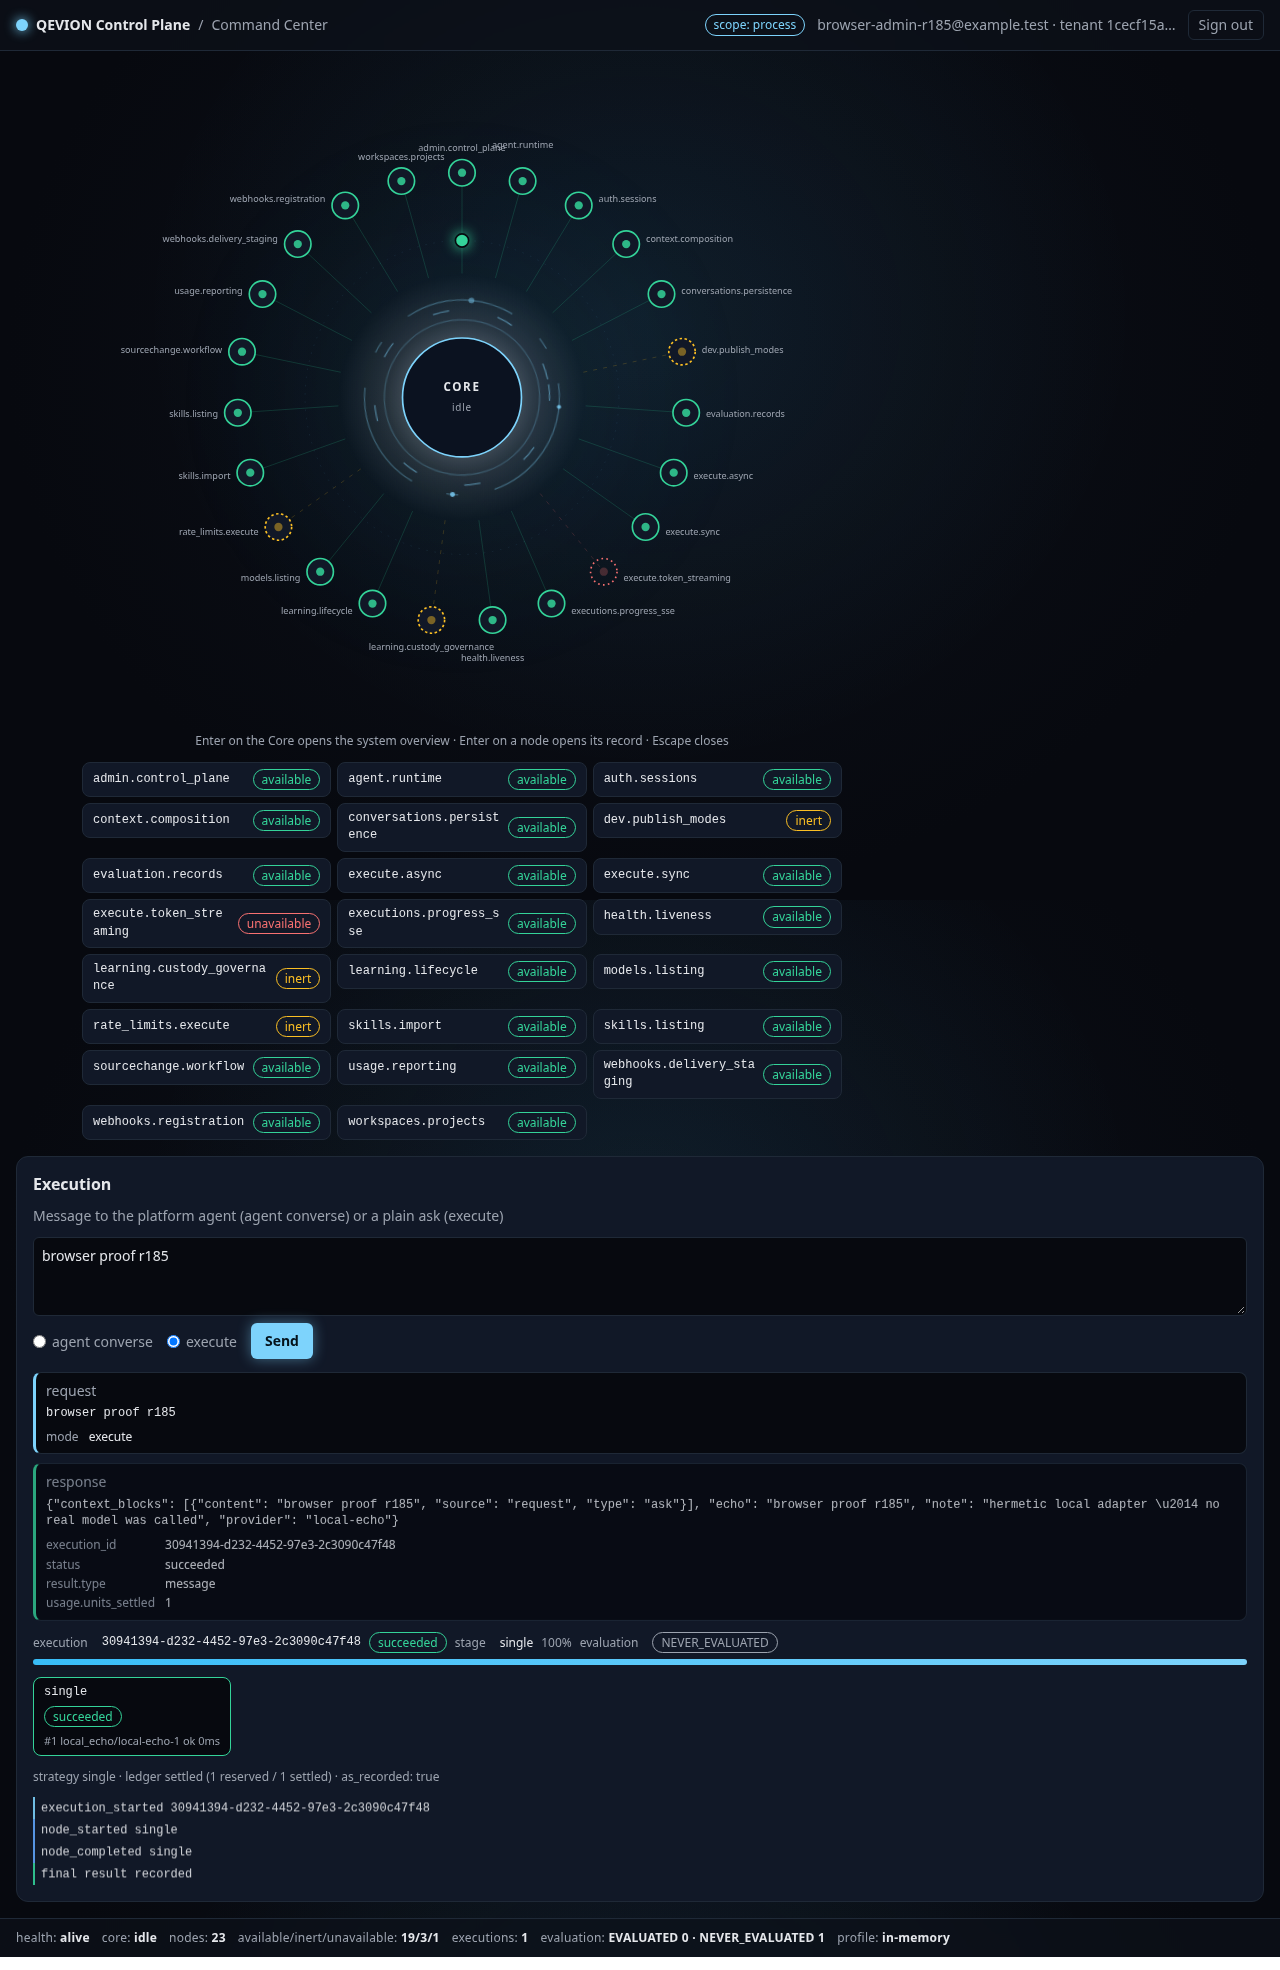
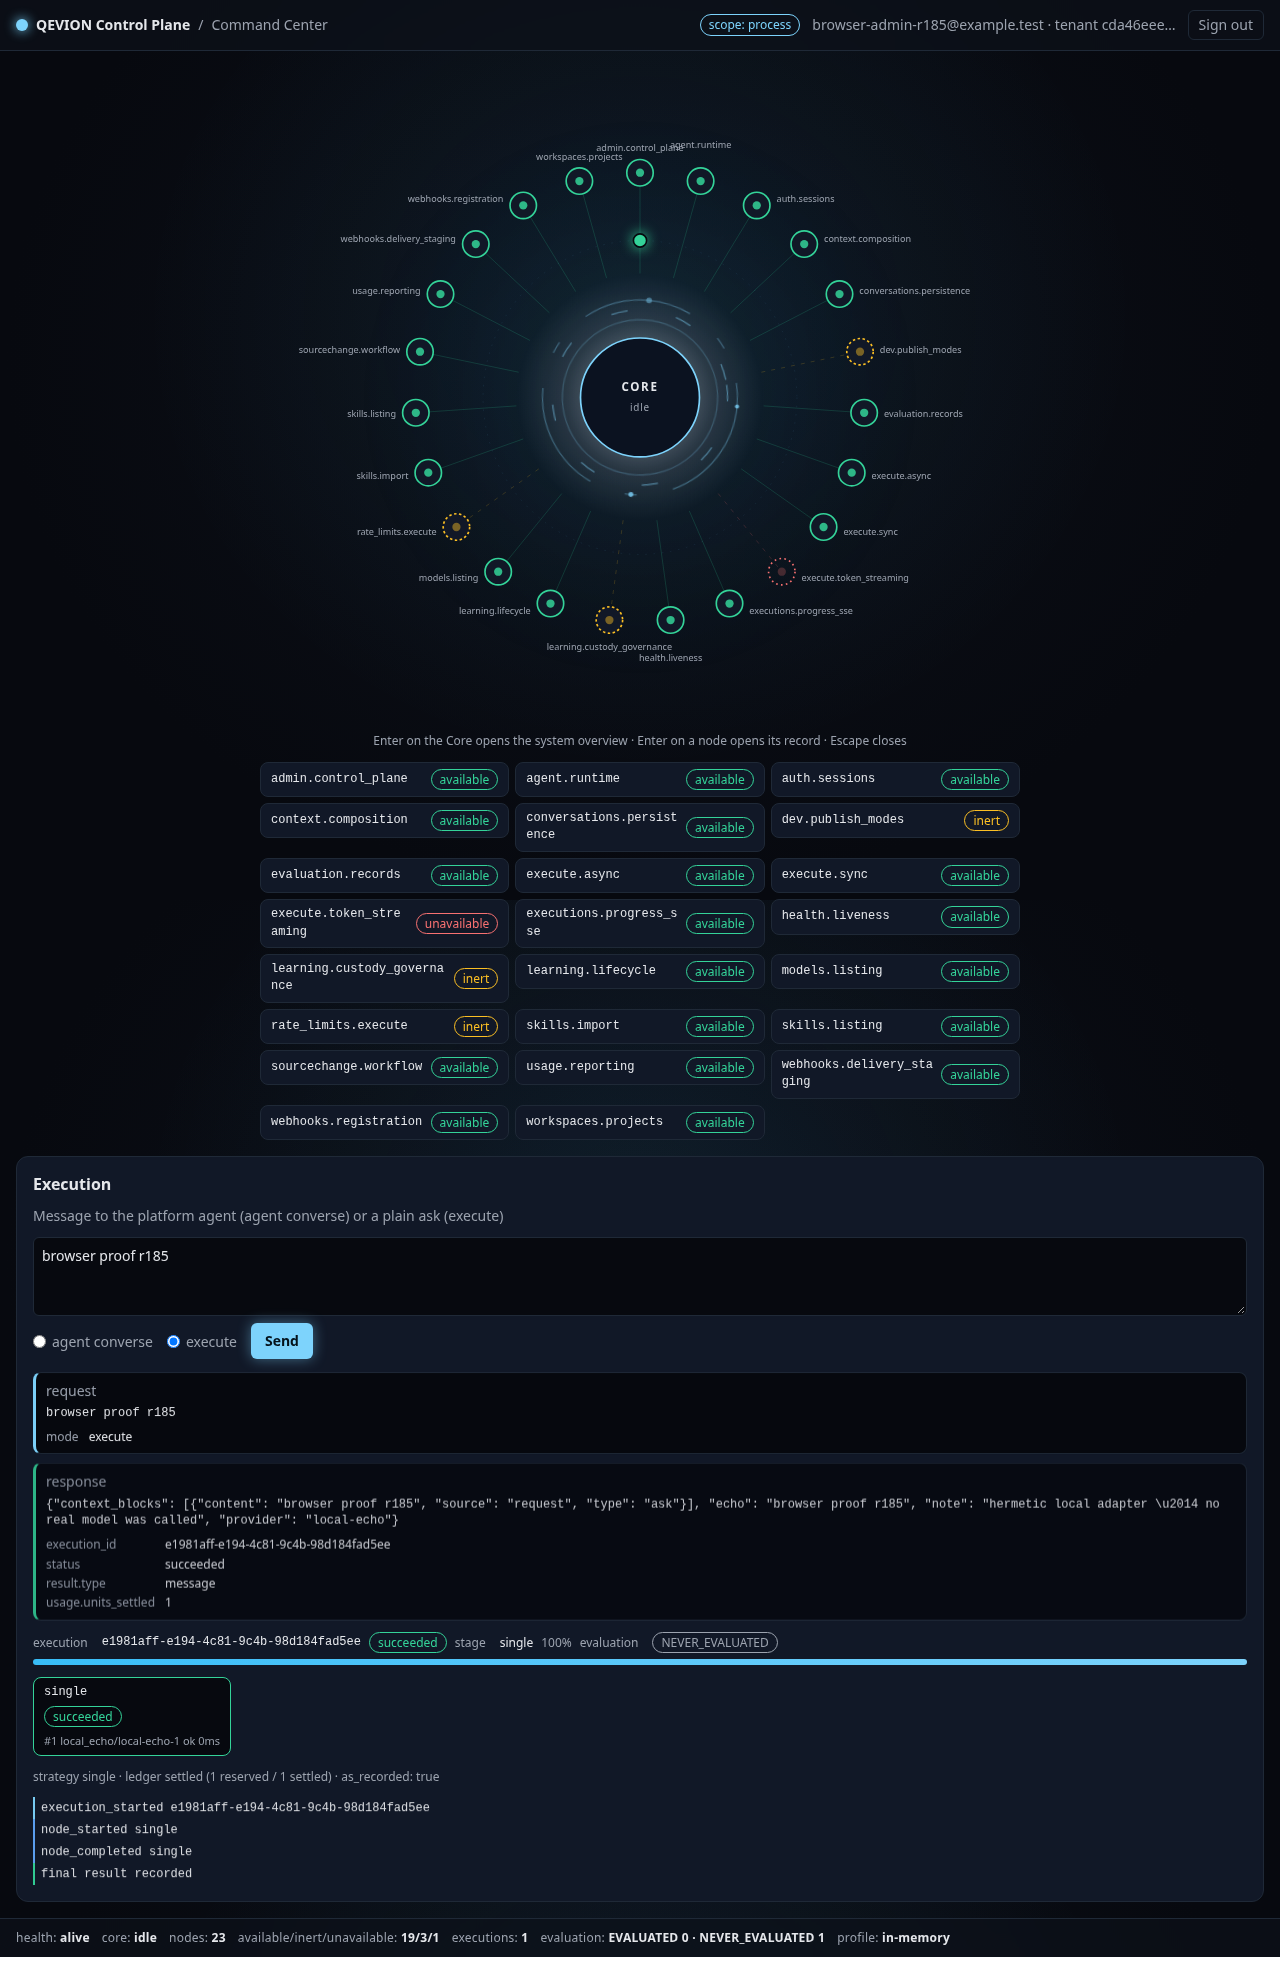
r187: GREEN — F-CS1-01 sessionStorage token custody + boot probe via shared probeSession(); F-CS1-02 single centred column, detail as overlay; tests/ui 105/0; evidence/r187 proof

diff --git a/ui/app/command/command.js b/ui/app/command/command.js
@@ -763,6 +763,36 @@ document.addEventListener("keydown", (event) => {
 
 /* --- session ------------------------------------------------------------------- */
 
+/* R187 (F-CS1-01): the bearer token is kept in sessionStorage — tab-scoped, gone when
+   the tab closes, never localStorage — so a reload keeps the admin session. Boot and
+   login share ONE probe of the served session route; a failed probe clears custody. */
+const TOKEN_KEY = "qevion.command.session";
+
+function rememberToken(token) {
+  state.token = token;
+  if (token) sessionStorage.setItem(TOKEN_KEY, token);
+  else sessionStorage.removeItem(TOKEN_KEY);
+}
+
+async function probeSession() {
+  const session = await api("/v1/auth/session");
+  if (!session.ok || !session.body || session.body.is_admin !== true) {
+    rememberToken(null);
+    return null;
+  }
+  return session.body;
+}
+
+async function enterCenter(session) {
+  state.session = session;
+  document.getElementById("session-who").textContent =
+    `${session.email || "?"} \u00b7 tenant ${String(session.tenant_id || "?").slice(0, 8)}\u2026`;
+  document.getElementById("login-view").hidden = true;
+  document.getElementById("center-view").hidden = false;
+  document.getElementById("logout").hidden = false;
+  await loadCenter();
+}
+
 document.getElementById("login-form").addEventListener("submit", async (event) => {
   event.preventDefault();
   const errorBox = document.getElementById("login-error");
@@ -778,26 +808,19 @@ document.getElementById("login-form").addEventListener("submit", async (event) =
     showError(errorBox, result.body);
     return;
   }
-  state.token = result.body.token;
-  const session = await api("/v1/auth/session");
-  if (!session.ok || session.body.is_admin !== true) {
+  rememberToken(result.body.token);
+  const session = await probeSession();
+  if (!session) {
     showError(errorBox, { error: { code: "unauthorized", message: "Admin access required." } });
-    state.token = null;
     return;
   }
-  state.session = session.body;
-  document.getElementById("session-who").textContent =
-    `${session.body.email || "?"} \u00b7 tenant ${String(session.body.tenant_id || "?").slice(0, 8)}\u2026`;
-  document.getElementById("login-view").hidden = true;
-  document.getElementById("center-view").hidden = false;
-  document.getElementById("logout").hidden = false;
-  await loadCenter();
+  await enterCenter(session);
 });
 
 document.getElementById("logout").addEventListener("click", async () => {
   const result = await api("/v1/auth/logout", { method: "POST" });
   if (!result.ok) return;
-  state.token = null;
+  rememberToken(null);
   state.catalog = null;
   state.selected = null;
   state.session = null;
@@ -812,3 +835,13 @@ document.getElementById("logout").addEventListener("click", async () => {
   document.getElementById("login-view").hidden = false;
   document.getElementById("login-password").value = "";
 });
+
+/* boot: resume a session this tab already holds (F-CS1-01). One probe, no timers;
+   when the stored token is stale the probe clears it and the login view stays. */
+(async function boot() {
+  const stored = sessionStorage.getItem(TOKEN_KEY);
+  if (!stored) return;
+  state.token = stored;
+  const session = await probeSession();
+  if (session) await enterCenter(session);
+})();

diff --git a/ui/app/command/command.css b/ui/app/command/command.css
@@ -99,7 +99,9 @@ button { cursor: pointer; font: inherit; }
 .st-running { color: var(--running); }
 
 /* center layout */
-.center { display: grid; grid-template-columns: minmax(0, 1fr) 340px; gap: 16px; padding: 16px; }
+/* R187 (F-CS1-02): one centred column — no width is reserved for the detail panel,
+   so the Core sits on the viewport centre whether the panel is closed or open. */
+.center { display: grid; grid-template-columns: minmax(0, 1fr); gap: 16px; padding: 16px; }
 .topology { min-width: 0; }
 .stage { position: relative; max-width: 760px; margin: 0 auto; }
 .stage-ambient {
@@ -109,7 +111,10 @@ button { cursor: pointer; font: inherit; }
 }
 .topology-svg { width: 100%; display: block; position: relative; }
 .stage-hint { text-align: center; margin: 4px 0 0; }
-.detail { align-self: start; position: sticky; top: 16px; }
+.detail {
+  position: fixed; top: 72px; right: 16px; z-index: 5;
+  width: min(340px, calc(100vw - 32px)); max-height: calc(100vh - 88px); overflow: auto;
+}
 .detail-id { margin: 0; font-size: 16px; word-break: break-all; }
 .evidence { word-break: break-word; color: var(--text); }
 
@@ -257,12 +262,8 @@ label.inline input { width: auto; margin: 0; display: inline; }
 @keyframes rise { from { opacity: 0; transform: translateY(4px); } to { opacity: 1; transform: none; } }
 
 /* ===== responsive ===== */
-@media (max-width: 1100px) {
-  .center { grid-template-columns: minmax(0, 1fr) 300px; }
-}
 @media (max-width: 900px) {
-  .center { grid-template-columns: 1fr; }
-  .detail { position: static; }
+  .detail { position: static; width: auto; max-height: none; }
   .stage-hint { display: none; }
 }
 @media (max-width: 600px) {

diff --git a/tests/ui/test_command_center_fix_r187.py b/tests/ui/test_command_center_fix_r187.py
@@ -66,7 +66,7 @@ def _css() -> str:
 
 def test_f01_token_is_kept_in_session_storage_never_local_storage() -> None:
     code = _strip_js_comments(_js())
-    assert "sessionStorage" in code, "F-CS1-01: token custody must survive a reload (sessionStorage)"
+    assert "sessionStorage" in code, "F-CS1-01: token custody must survive a reload"
     assert "localStorage" not in code, "F-CS1-01: never persist the bearer token beyond the tab"
 
 
@@ -75,9 +75,7 @@ def test_f01_boot_probes_the_existing_session_route_through_one_shared_function(
     assert re.search(r"sessionStorage\.getItem\(", code), "boot must read the stored token"
     # exactly one literal keeps the ui_command_static_check /v1/ ceiling (12) intact
     assert code.count('"/v1/auth/session"') == 1
-    match = re.search(
-        r"async function (\w+)\([^)]*\)\s*\{[^}]*\"/v1/auth/session\"", code
-    )
+    match = re.search(r"async function (\w+)\([^)]*\)\s*\{[^}]*\"/v1/auth/session\"", code)
     assert match, "the session probe must be a named async function"
     probe = match.group(1)
     calls = re.findall(rf"\b{probe}\(", code)
@@ -127,7 +125,15 @@ def test_ui_command_static_check_frame_untouched() -> None:
     assert js.count("/v1/") <= 12
     assert js.count("fetch(") == 2  # one in the header comment, one inside api()
     assert _strip_js_comments(js).count("fetch(") == 1
-    for banned in ("EventSource", "WebSocket", "XMLHttpRequest", "axios", "setInterval", "setTimeout"):
+    banned_tokens = (
+        "EventSource",
+        "WebSocket",
+        "XMLHttpRequest",
+        "axios",
+        "setInterval",
+        "setTimeout",
+    )
+    for banned in banned_tokens:
         assert banned not in _strip_js_comments(js), banned
     round_block = manifest["change_budget"]["round_r187"]
     assert int(round_block["ceiling"]) == 0
@@ -184,7 +190,14 @@ def server(tmp_path_factory: pytest.TempPathFactory) -> Iterator[dict]:
     )
     for name in list(env):
         if name in ("DATABASE_URL", "REDIS_URL") or name.startswith(
-            ("GROQ_API_KEY", "GSK_API_KEY", "GW_", "GATEWAY_", "OPENAI_API_KEY", "ANTHROPIC_API_KEY")
+            (
+                "GROQ_API_KEY",
+                "GSK_API_KEY",
+                "GW_",
+                "GATEWAY_",
+                "OPENAI_API_KEY",
+                "ANTHROPIC_API_KEY",
+            )
         ):
             env.pop(name, None)
     log_path = tmp_path_factory.mktemp("command-center-r187") / "server_stdout.txt"
